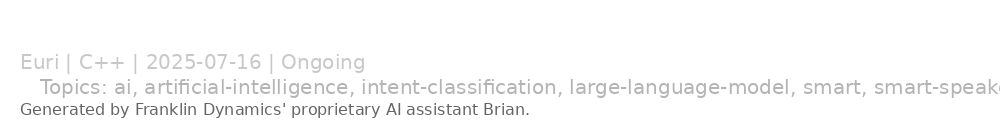
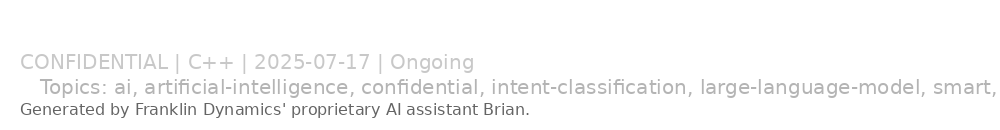
Auto update portfolio

Changed region(s): [[0.341, 0.6154, 1.0, 0.7692], [0.0, 0.4, 0.496, 0.5538]]

diff --git a/portfolio.md b/portfolio.md
@@ -1,1 +1,1 @@
-- **Euri** - Language: C++, Last Updated: 2025-07-16, Status: Ongoing, Topics: ai, artificial-intelligence, intent-classification, large-language-model, smart, smart-speaker, speaker, speech-recognition, text-to-speech
+- **CONFIDENTIAL** - Language: C++, Last Updated: 2025-07-17, Status: Ongoing, Topics: ai, artificial-intelligence, confidential, intent-classification, large-language-model, smart, smart-speaker, speaker, speech-recognition, text-to-speech
